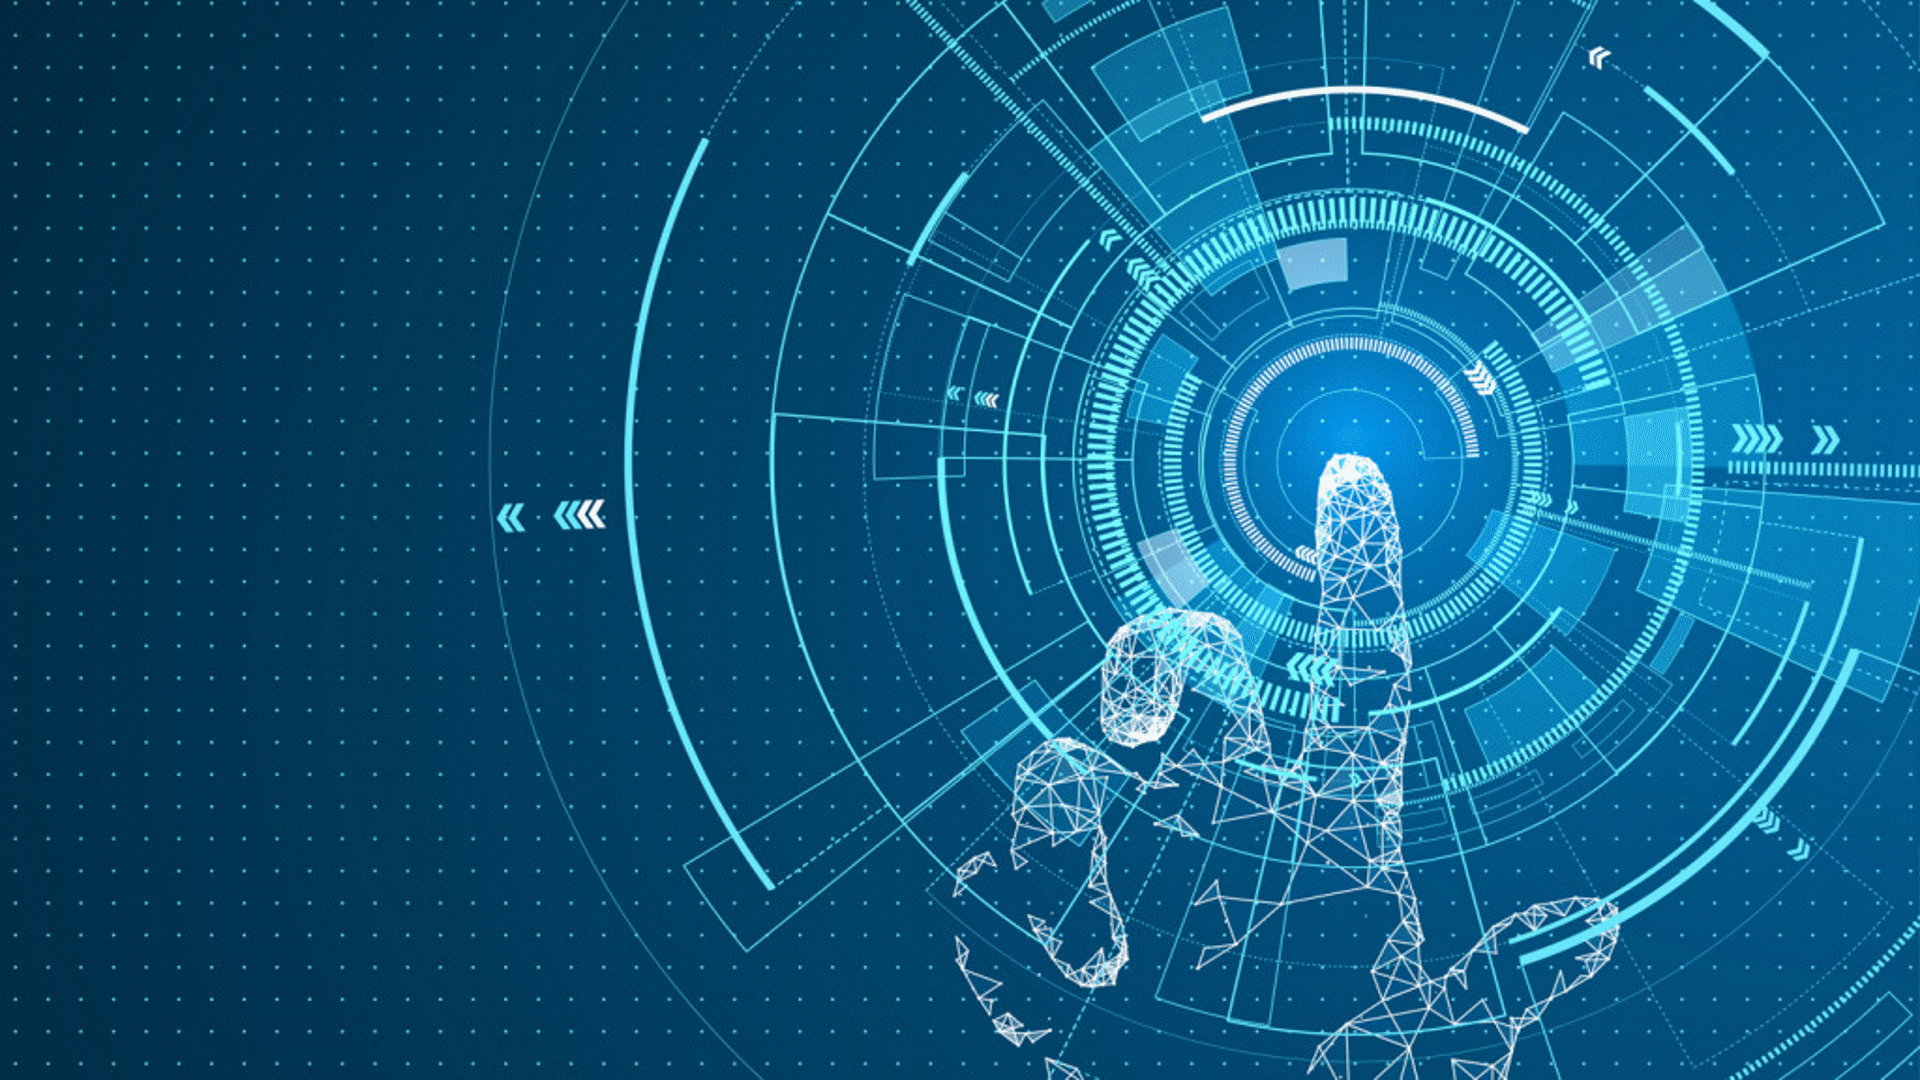
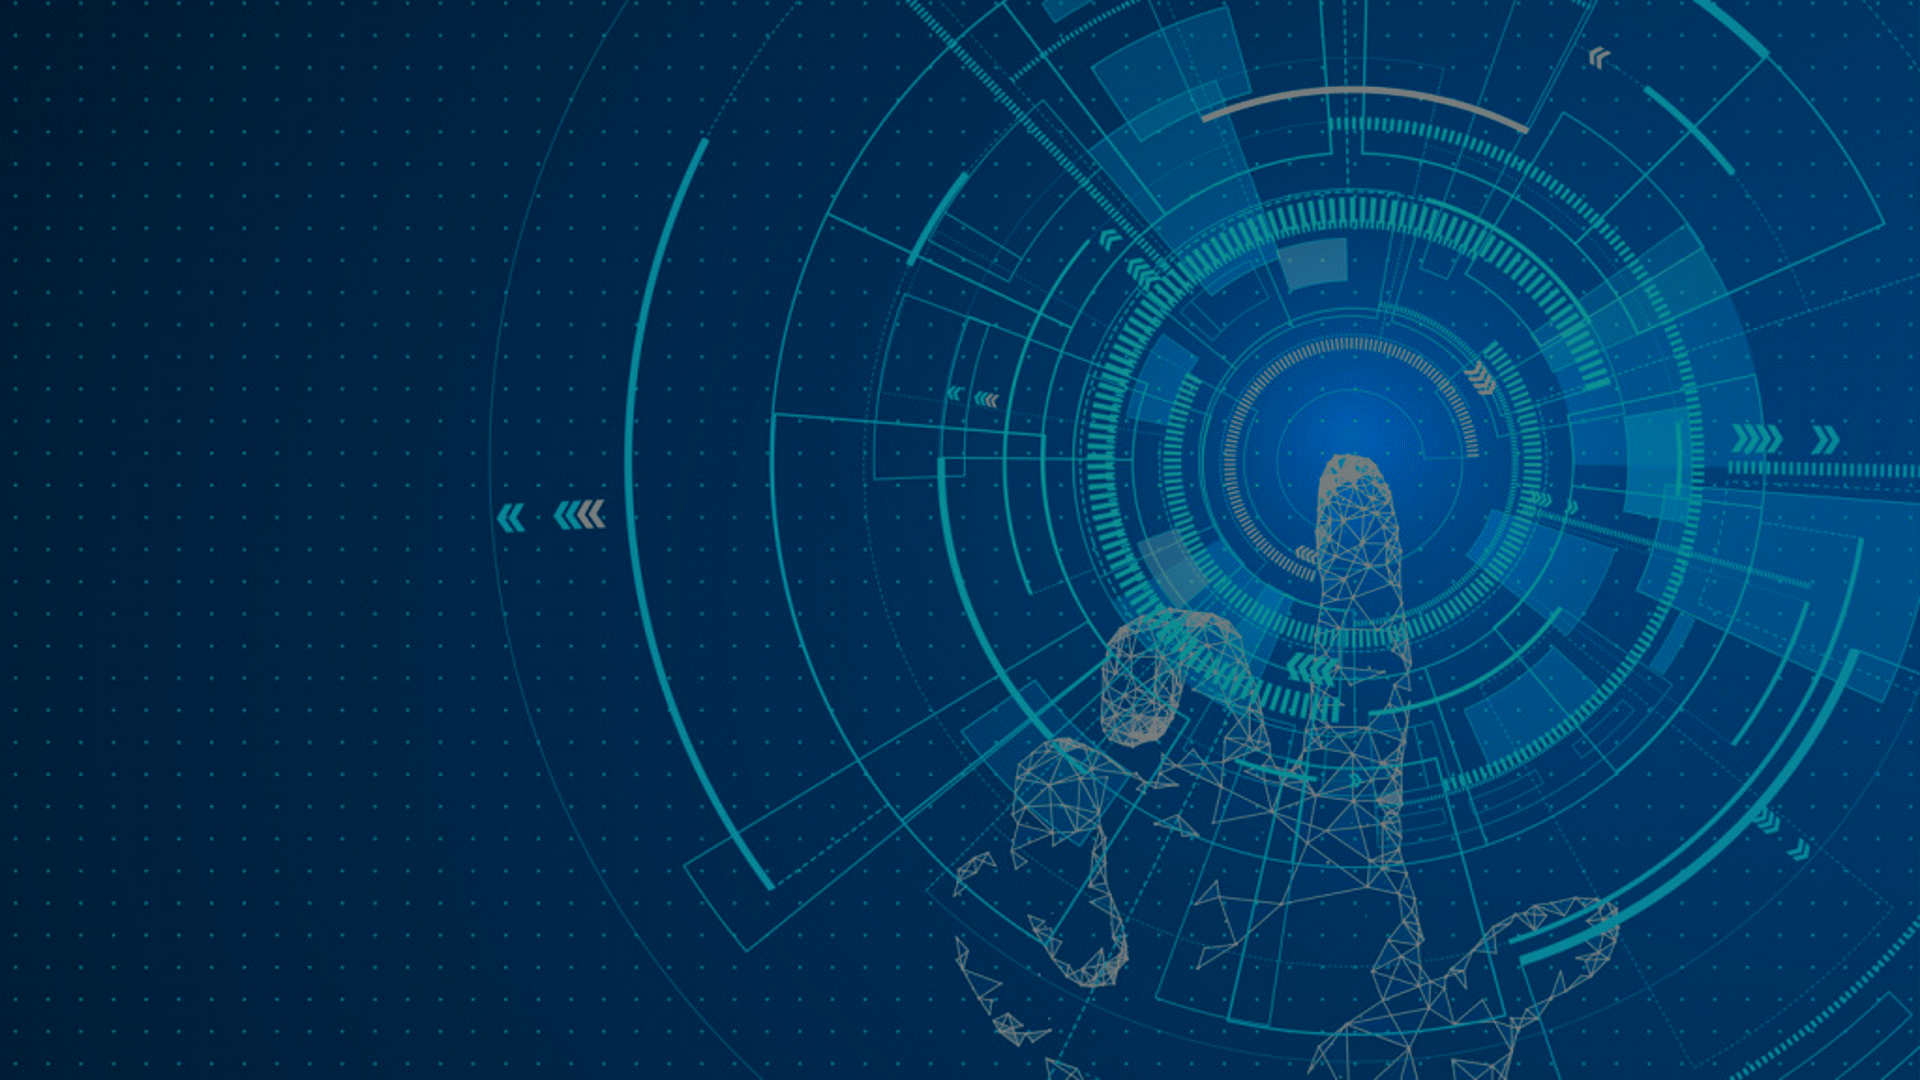
1.2.2
spiced up the look a little

diff --git a/index.css b/index.css
@@ -2,11 +2,99 @@ body, html {
     height: 100%;
 }
 body {
-	background-image: linear-gradient(rgba(0, 0, 0, 0.5), rgba(0, 0, 0, 0.5)), url("pic/TechBackground.png");
+	background-image: url("pic/TechBackground.png");
 	background-repeat: no-repeat;
     background-position: center;
     background-attachment: scroll;
 	background-size: auto;
+	color: white;
+}
+
+/* Navbar container */
+.navbar {
+  overflow: hidden;
+  background-color: grey/*#333*/;
+  font-family: Arial;
+  position: fixed; /* Set the navbar to fixed position */
+  top: 0; /* Position the navbar at the top of the page */
+  width: 100%; /* Full width */
+  z-index: 1000;
+}
+
+/* Links inside the navbar */
+.navbar a {
+  float: left;
+  font-size: 16px;
+  color: white;
+  text-align: center;
+  padding: 14px 16px;
+  text-decoration: none;
+}
+
+/* The dropdown container */
+.dropdown {
+  float: left;
+  overflow: hidden;
+}
+
+/* Dropdown button */
+.dropdown .dropbtn {
+  font-size: 16px; 
+  border: none;
+  outline: none;
+  color: white;
+  padding: 15px 20px;
+  background-color: inherit;
+  font-family: inherit; /* Important for vertical align on mobile phones */
+  margin: 0; /* Important for vertical align on mobile phones */
+}
+
+/* Add a red background color to navbar links on hover */
+.navbar a:hover, .dropdown:hover .dropbtn {
+  background-color: blue;
+}
+
+/* Dropdown content (hidden by default) */
+.dropdown-content {
+  display: none;
+  position: absolute;
+  background-color: #f9f9f9;
+  min-width: 160px;
+  box-shadow: 0px 8px 16px 0px rgba(0,0,0,0.2);
+  z-index: 1;
+}
+
+/* Links inside the dropdown */
+.dropdown-content a {
+  float: none;
+  color: black;
+  padding: 12px 16px;
+  text-decoration: none;
+  display: block;
+  text-align: left;
+}
+
+/* Add a grey background color to dropdown links on hover */
+.dropdown-content a:hover {
+  background-color: #ddd;
+}
+
+/* Show the dropdown menu on hover */
+.dropdown:hover .dropdown-content {
+  display: block;
+}
+
+/* Main content */
+.main {
+    margin-top: 0px; /* Add a top margin to avoid content overlay */
+}
+.contactBtn {
+	height:75px;
+	width:100px;
+	border: 1px solid blue;
+}
+.contactBtn:hover {
+	background-color: blue;
 	color: white;
 }
 /* The hero image */
@@ -22,6 +110,8 @@ body {
   background-repeat: no-repeat;
   background-size: cover;
   position: relative;
+  margin-top: 70px; /* Add a top margin to avoid content overlay */
+  border: 1px solid blue;
 }
 
 /* Place text in the middle of the image */
@@ -37,6 +127,7 @@ body {
 .column {
   float: left;
   width: 20%;
+  border: 1px solid blue;
 }
 
 .left, .right {

diff --git a/index.html b/index.html
@@ -7,15 +7,15 @@
 <meta name="viewport" content="width=device-width, initial-scale=1">
 <link rel="stylesheet" href="index.css">
 <div class="navbar">
-  <a href="index.html">[Home]</a>
-  <a href="aboutUs.html">[About Us]</a>
-  <a href="reviews.html">[Reviews]</a>
+  <a href="index.html">Home</a>
+  <a href="aboutUs.html">About Us</a>
+  <a href="reviews.html">Reviews</a>
 </div>
 
 <div class="Header-Image">
   <div class="Header-Image-Text">
-    <h1><u>Welcome to Jonny's PCs and Phones</u></h1>
-    <a href="aboutUs.html"><button>Contact Me</button></a>
+    <p><u><font size="20">Welcome to Jonny's PCs and Phones</font></u></p>
+    <a href="aboutUs.html"><button class="contactBtn">Contact Me</button></a>
   </div>
 </div>
 
@@ -51,7 +51,7 @@
 	</ul>
 	</div>
 	<div class="column">
-	<h1><u>Phone and Tablet Services Offered:</h1>
+	<h1><u>Phone and Tablet Services Offered:</u></h1>
 	<ul>
 	<li>Activating</li>
 	<li>Broken Screens</li>

diff --git a/reviews.html b/reviews.html
@@ -14,7 +14,7 @@
 
 <div class="Header-Image">
   <div class="Header-Image-Text">
-    <h1><b><u>Reviews</u></b></h1>
+    <p><b><u><font size="20">Reviews</font></u></b></p>
   </div>
 </div>
 
